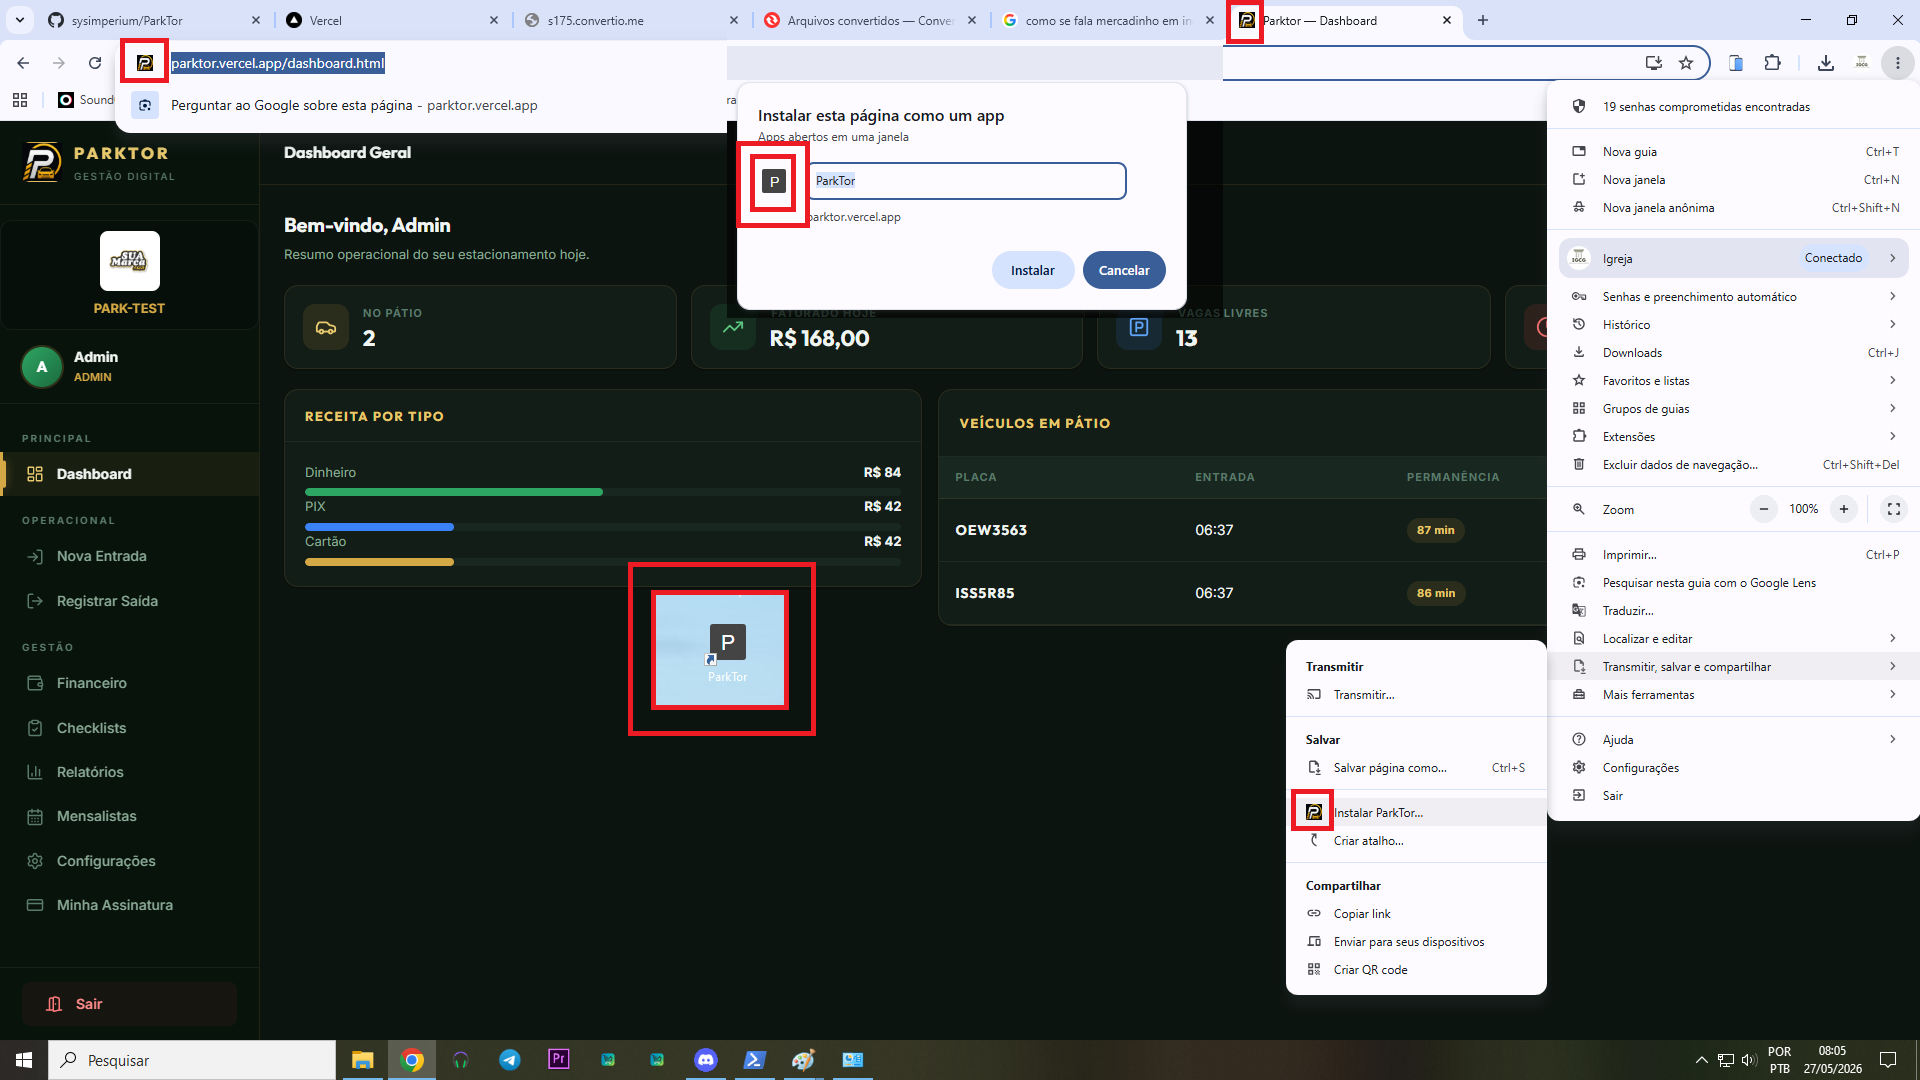
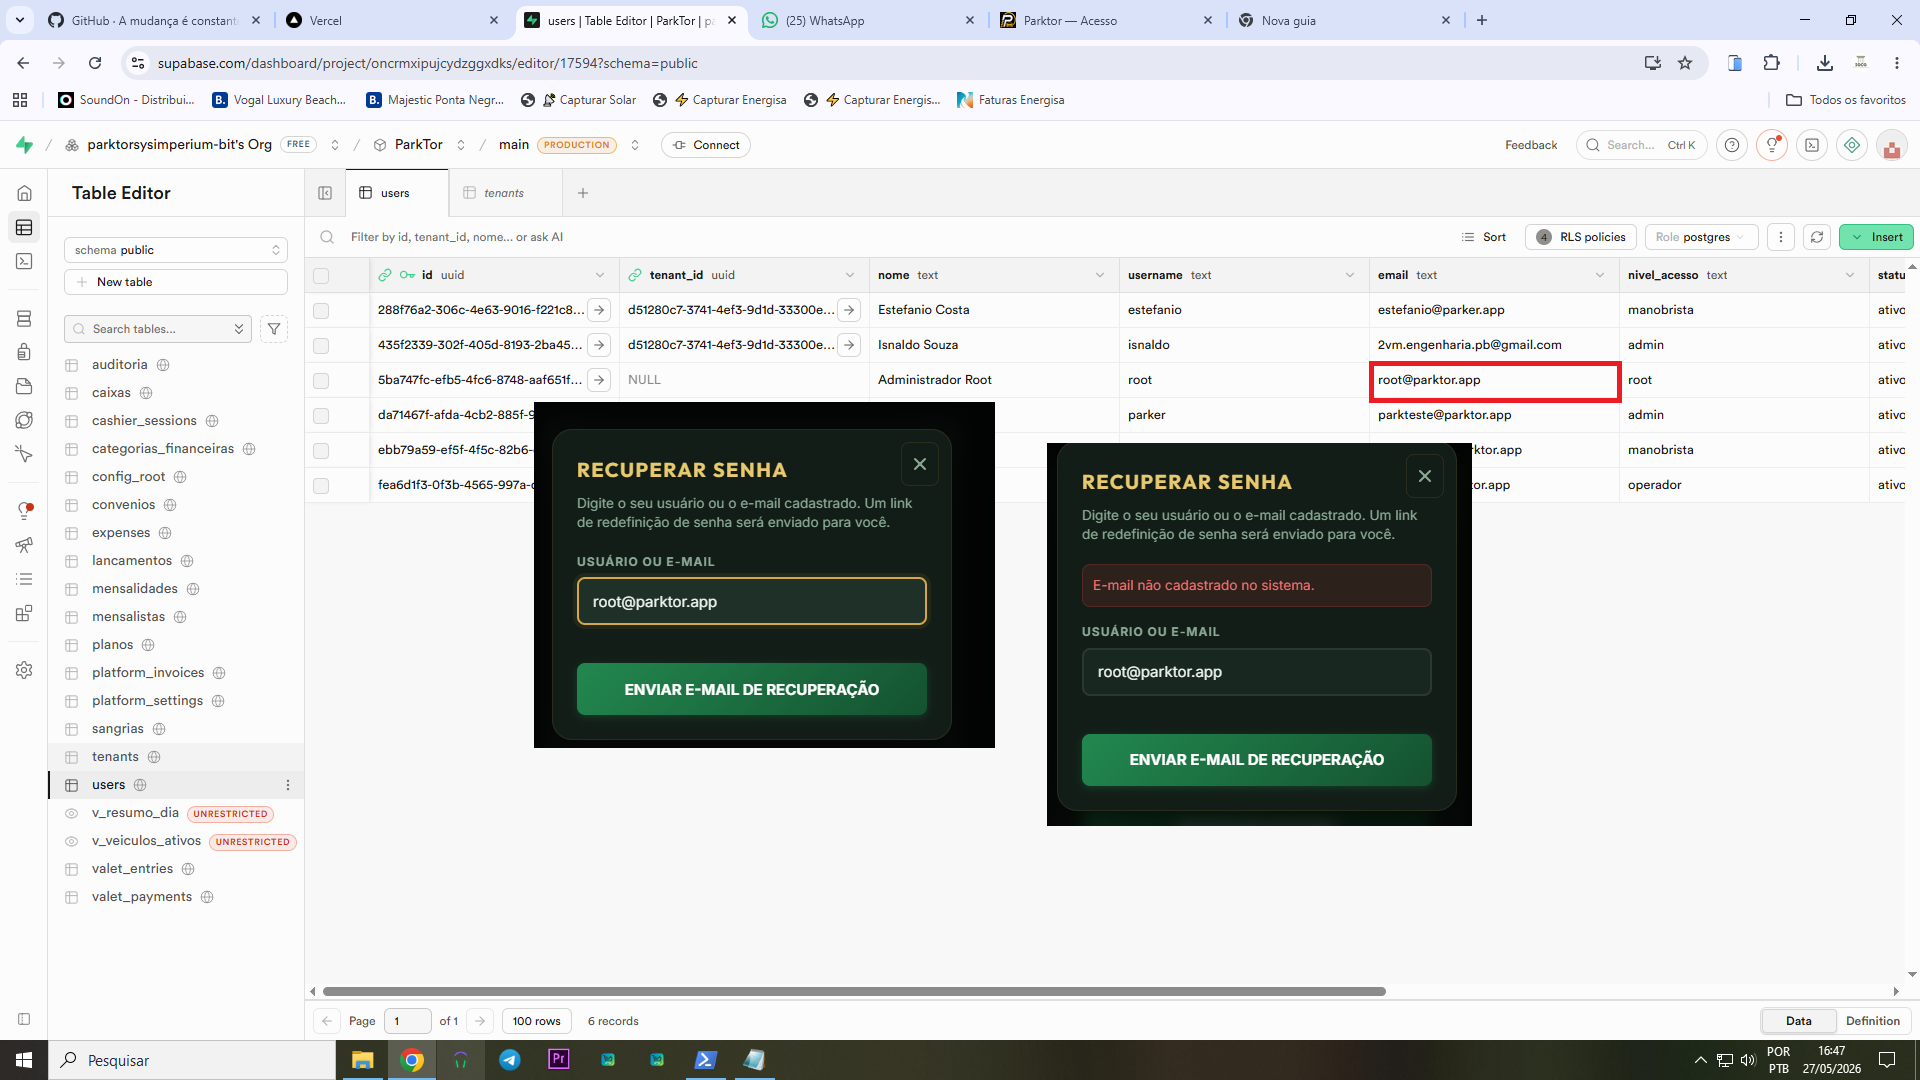
fix(auth): use pure anonymous client for lookups to prevent localStorage session pollution

diff --git a/index.html b/index.html
@@ -94,6 +94,11 @@
     const SUPABASE_ANON_KEY = 'eyJhbGciOiJIUzI1NiIsInR5cCI6IkpXVCJ9.eyJpc3MiOiJzdXBhYmFzZSIsInJlZiI6Im9uY3JteGlwdWpjeWR6Z2d4ZGtzIiwicm9sZSI6ImFub24iLCJpYXQiOjE3NzkzMTUzMjcsImV4cCI6MjA5NDg5MTMyN30.8DB7OHZoV6fd8lmnWAQEwKO6BV6E_TltI6oH20Dhff4';
     const { createClient } = supabase;
     const sb = createClient(SUPABASE_URL, SUPABASE_ANON_KEY);
+    
+    // Cliente puro sem persistência em localStorage para consultas antes do login
+    const sbAnon = createClient(SUPABASE_URL, SUPABASE_ANON_KEY, {
+      auth: { persistSession: false }
+    });
 
     const ROUTES = { root: 'root.html', admin: 'dashboard.html', operador: 'saida.html', manobrista: 'entrada.html' };
 
@@ -114,13 +119,14 @@
       btn.classList.add('btn-loading');
 
       // 1. Buscar o e-mail associado ao username na tabela public.users
-      const { data: userData, error: userError } = await sb
+      const { data: userData, error: userError } = await sbAnon
         .from('users')
         .select('email')
         .ilike('username', usuario)
         .single();
 
       if (userError || !userData) {
+        if (userError) console.error('Erro de login lookup:', userError);
         btn.classList.remove('btn-loading');
         alert.classList.add('show');
         return;
@@ -170,25 +176,33 @@
         // Se contiver '@', assumimos que é e-mail
         if (inputVal.includes('@')) {
           // Validar se existe o e-mail na base de dados
-          const { data: userData, error: userError } = await sb
+          const { data: userData, error: userError } = await sbAnon
             .from('users')
             .select('email')
             .ilike('email', inputVal)
             .single();
           
-          if (userError || !userData) {
+          if (userError) {
+            console.error('Erro na consulta por e-mail:', userError);
+            throw new Error('Erro na consulta ao banco: ' + userError.message);
+          }
+          if (!userData) {
             throw new Error('E-mail não cadastrado no sistema.');
           }
           email = userData.email;
         } else {
           // Procurar o username
-          const { data: userData, error: userError } = await sb
+          const { data: userData, error: userError } = await sbAnon
             .from('users')
             .select('email')
             .ilike('username', inputVal)
             .single();
 
-          if (userError || !userData) {
+          if (userError) {
+            console.error('Erro na consulta por usuário:', userError);
+            throw new Error('Erro na consulta ao banco: ' + userError.message);
+          }
+          if (!userData) {
             throw new Error('Usuário não cadastrado no sistema.');
           }
           email = userData.email;
